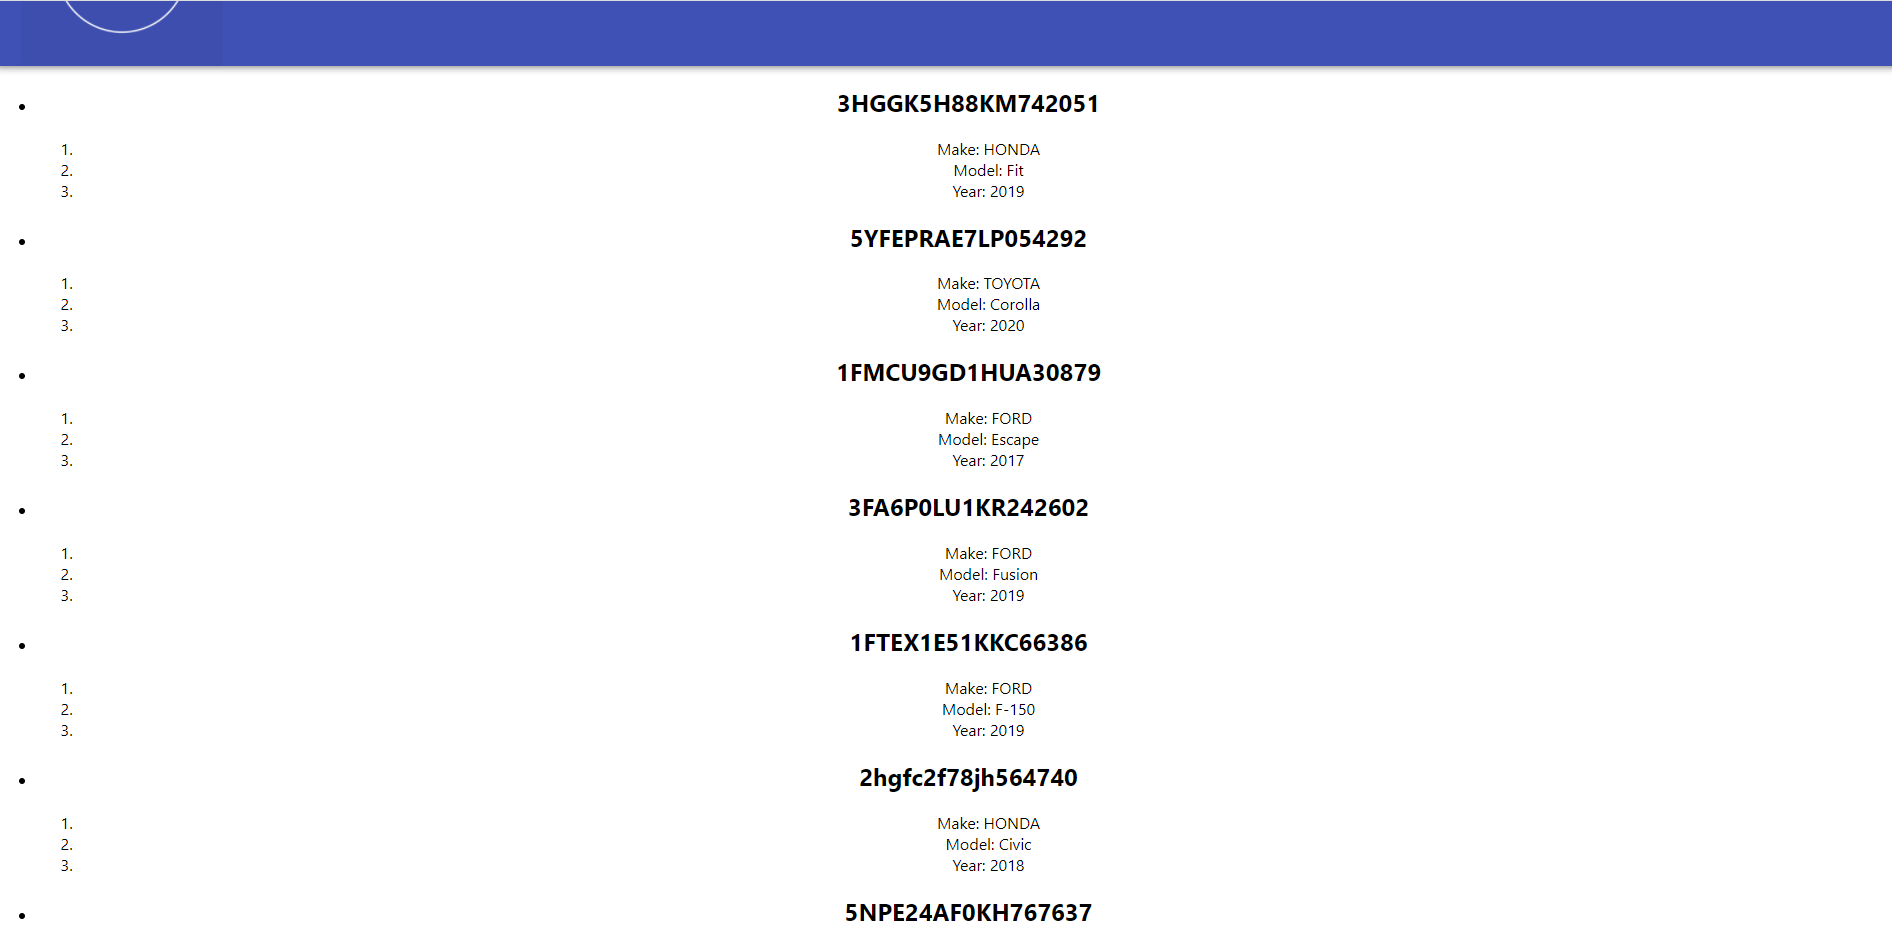
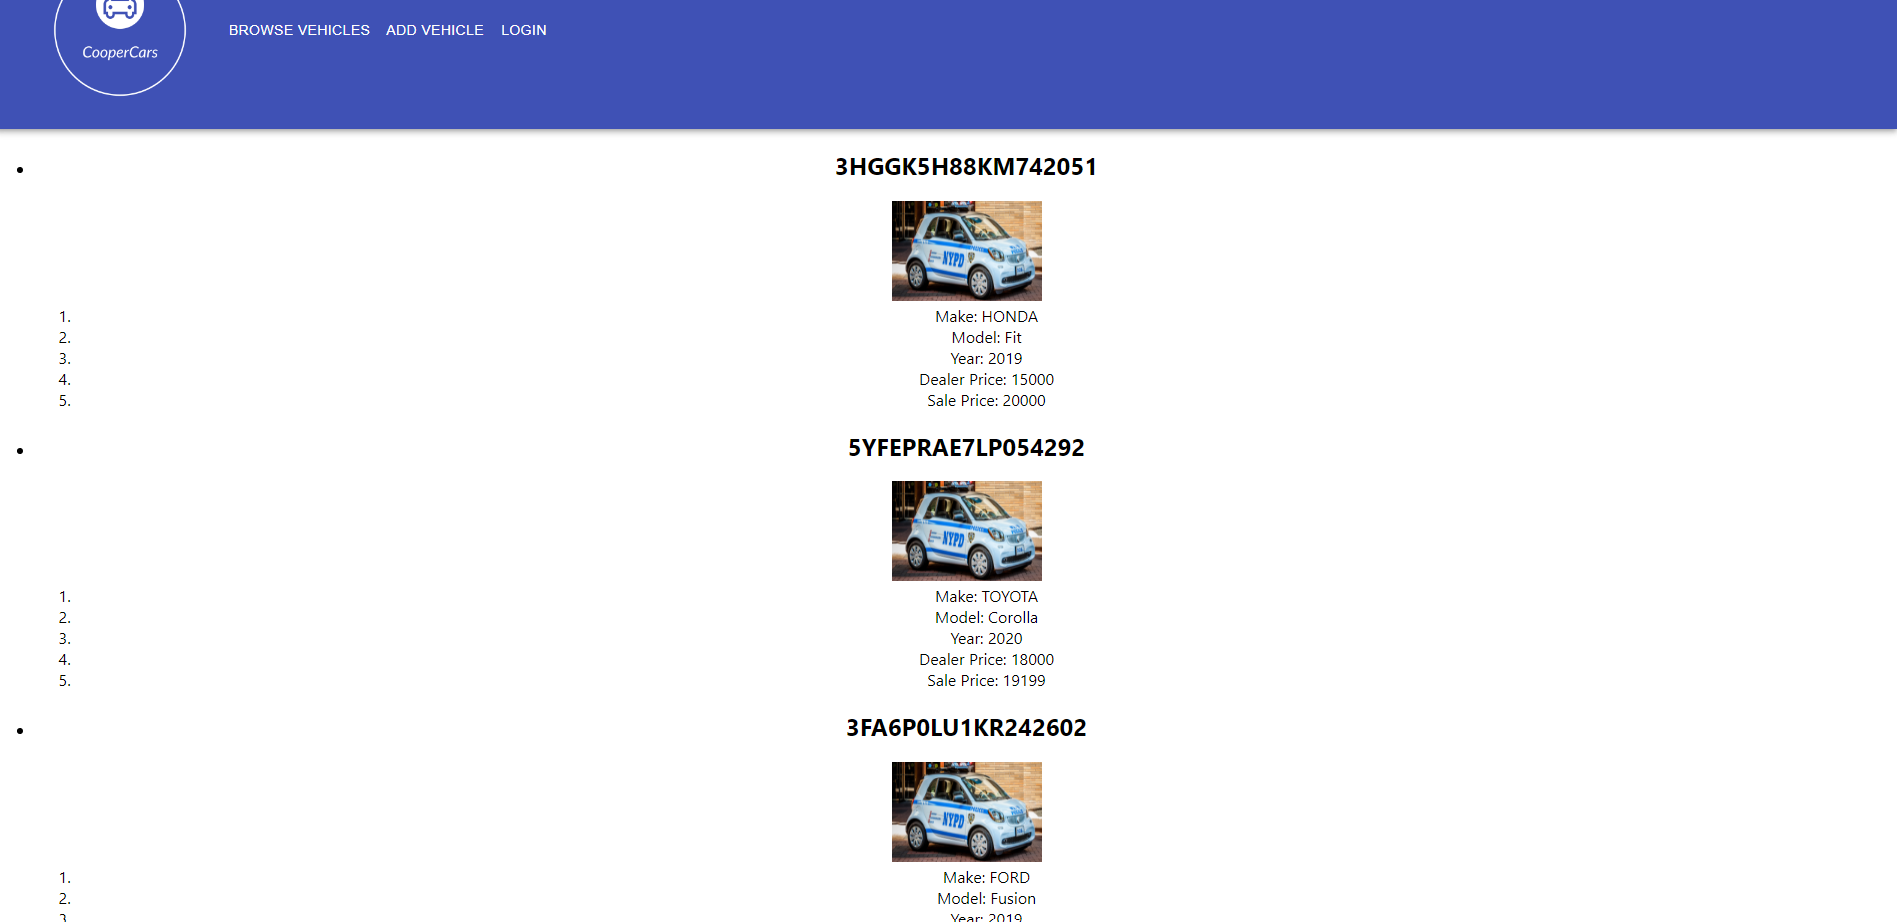
added functionality for dealer to add dealer and sale price. API fetches from textfield from from end

Changed region(s): [[0.0, 0.0, 1.0, 1.0]]

diff --git a/coopercars-app/src/components/AddVehicle.js b/coopercars-app/src/components/AddVehicle.js
@@ -20,7 +20,6 @@ function getRandomColor() {
 
 function AddVehicle() {
     const apiUrlPrefix = "http://localhost:8080";
-    //const vins = ['1FMCU9GD1HUA30879', '3FA6P0LU1KR242602', '3HGGK5H88KM742051', '5YJ3E1EA5JF098290', '1FTEX1E51KKC66386', '1C4RJFLG1HC603078', '3FA6P0LU1KR101755', 'JTMRWRFV7LJ048851', '1G1RE6E42EU111830', 'SADCJ2BN5HA086947', 'KNMAT2MV3JP608780', '5NPD84LF6KH490922', '5npe34af3jh646547', '2hgfc2f78jh564740', '5YFEPRAE7LP054292', '55SWF4KB5GU142000'];
 
     const [currentVIN, setCurrentVIN] = useState('-');
     const [currentVehicleInfo, setCurrentVehicleInfo] = useState('-');
@@ -30,15 +29,14 @@ function AddVehicle() {
     const [currentVehicleFeatures4, setCurrentVehicleFeatures4] = useState('-');
     const [currentVehicleFeatures5, setCurrentVehicleFeatures5] = useState('-');
 
-    //const [data,setData] = useState(null);
-    //const [print,setPrint] = useState(false);
-    //const vinDelay = 30000; // in milliseconds
     const [vin, setVin] = useState("");
+    const [salePrice, setSalePrice] = useState("");
+    const [dealerPrice, setDealerPrice] = useState("");
 
 
-    AddVehicle.refreshVehicleInfo = (vin) => {
+    AddVehicle.refreshVehicleInfo = (vin, dealerPrice,salePrice) => {
         console.log("Refreshing ... %s vehicle ...", currentVIN);
-        // var vin = vins[Math.floor(Math.random() * vins.length)];
+
         setCurrentVIN(vin);
         setCurrentVehicleInfo(vin);
         setCurrentVehicleFeatures1(vin);
@@ -47,7 +45,7 @@ function AddVehicle() {
         setCurrentVehicleFeatures4(vin);
         setCurrentVehicleFeatures5(vin);
 
-        var vehicleApiUrl = apiUrlPrefix.concat("/api/vehicle/",vin);
+        var vehicleApiUrl = apiUrlPrefix.concat("/api/vehicle/",vin+"/"+dealerPrice+"/"+salePrice);
         fetch(vehicleApiUrl)
             .then(response => response.json())
             .then(data => {
@@ -101,20 +99,13 @@ function AddVehicle() {
             });
         console.log("Refreshed %s VIN.", currentVIN);
     }
-    // useInterval(() => {
-    //   HomePage.refreshVehicleInfo();
-    // }, vinDelay);
 
 
     AddVehicle.buttonClicked = () => {
         console.log('Button was clicked!');
-        AddVehicle.refreshVehicleInfo(vin);
+        AddVehicle.refreshVehicleInfo(vin,dealerPrice,salePrice);
     }
 
-    // HomePage.getData = (val) => {
-    //     setData(val.target.value)
-    //     console.warn(val.target.value)
-    // }
 
     return (
         <div className="App">
@@ -123,26 +114,30 @@ function AddVehicle() {
                 <img src={coopercars1_logo} className="App-logo" alt="cooper-logo" />
 
                 <p>
-                    Enter VIN of vehicle to add to inventory:
+                    Enter VIN, dealer price, sale price of vehicle to add to inventory:
                 </p>
 
                 <TextField
                     style={{background: "rgb(232, 241, 250)"}}
+                    onChange={(e) => setVin(e.target.value)}
                     value={vin}
-                    onChange={(e) => {
-                        setVin(e.target.value);
-                    }}
+                />
+                <TextField
+                    style={{background: "rgb(232, 241, 250)"}}
+                    onChange={(e) => setDealerPrice(e.target.value)}
+                    value={dealerPrice}
+
+                />
+                <TextField
+                    style={{background: "rgb(232, 241, 250)"}}
+                    onChange={(e) => setSalePrice(e.target.value)}
+                    value={salePrice}
 
                 />
 
                 <button className="button" onClick={AddVehicle.buttonClicked}>Submit</button>
 
-
-                {/*<input type="text" onChange={HomePage.getData}/>*/}
-                {/*<button onClick={HomePage.getData}>Submit</button>*/}
-
                 <br></br>
-                {/*<button className="button" onClick={HomePage.buttonClicked}>Click to Refresh</button>*/}
 
                 <p>The vehicle for VIN {vin} is </p>
                 {currentVehicleInfo}<br></br>

diff --git a/coopercars-app/src/components/BrowseVehicle.js b/coopercars-app/src/components/BrowseVehicle.js
@@ -53,12 +53,13 @@ function BrowseVehicle() {
                 <ul className="card-grid">
                     {items.map((item) => (
                         <li>
-                            {/*<article className="card" key={item.callingCodes}>*/}
-                            {/*    <div className="card-image">*/}
-                            {/*        <img src={item.flag} alt={item.name} />*/}
-                            {/*    </div>*/}
+                            <article className="vehicle" key={item.vin}>
+
                                 <div className="card-content">
                                     <h2 className="card-name">{item.vin}</h2>
+                                    <div className="car-image">
+                                        <img src={item.imgURL} alt={item.vin} width="150" height="100"/>
+                                    </div>
                                     <ol className="card-list">
                                         <li>
                                             Make:{" "}
@@ -70,9 +71,15 @@ function BrowseVehicle() {
                                         <li>
                                             Year: <span>{item.year}</span>
                                         </li>
+                                        <li>
+                                            Dealer Price: <span>{item.dealerPrice}</span>
+                                        </li>
+                                        <li>
+                                            Sale Price: <span>{item.salePrice}</span>
+                                        </li>
                                     </ol>
                                 </div>
-                            {/*</article>*/}
+                            </article>
                         </li>
                     ))}
                 </ul>

diff --git a/coopercars-service/src/main/java/edu/cooper/ece366/project/coopercars/server/VehicleAPI.java b/coopercars-service/src/main/java/edu/cooper/ece366/project/coopercars/server/VehicleAPI.java
@@ -19,9 +19,10 @@ public class VehicleAPI
         this.theVehicle = theVehicle;
     }
 
-    public VehicleAPI(String myVIN) throws IOException {
+    public VehicleAPI(String myVIN, String dealerPrice, String salePrice) throws IOException {
         String theVIN = myVIN;
         String VIN;
+        String imgURL;
 
         //general
         String make;
@@ -104,7 +105,7 @@ public class VehicleAPI
         int axles;
         String transmissionStyle;
         String theURL = "https://vpic.nhtsa.dot.gov/decoder/Decoder/ExportToExcel?VIN=" + theVIN;
-        String[] populateInitialRow = {"VIN", "Anti-lock Braking System (ABS)", "Electronic Stability Control (ESC)", "Traction Control",
+        String[] populateInitialRow = {"VIN","Anti-lock Braking System (ABS)", "Electronic Stability Control (ESC)", "Traction Control",
                 "Keyless Ignition", "Automatic Crash Notification (ACN) / Advanced Automatic Crash Notification (AACN)",
                 "Backup Camera", "Parking Assist", "Rear Cross Traffic Alert", "Rear Automatic Emergency Braking", "Crash Imminent Braking (CIB)",
                 "Forward Collision Warning (FCW)", "Dynamic Brake Support (DBS)", "Pedestrian Automatic Emergency Braking (PAEB)",
@@ -117,7 +118,7 @@ public class VehicleAPI
                 "Body Class", "Doors", "Windows", "Wheel Base Type", "Bed Length (inches)", "Curb Weight (pounds)", "Wheel Base (inches) From",
                 "Gross Combination Weight Rating From", "Bed Type", "Cab Type", "Number of Wheels", "Wheel Size Front (inches)",
                 "Wheel Size Rear (inches)", "Make", "Model", "Model Year", "Series", "Trim", "Vehicle Type", "Plant Country",
-                "Base Price ($)", "Entertainment System", "Number of Seats", "Number of Seat Rows", "Drive Type", "Axles", "Transmission Style"};
+                "Base Price ($)", "Entertainment System", "Number of Seats", "Number of Seat Rows", "Drive Type", "Axles", "Transmission Style", "Dealer Price", "Sale Price","Image URL"};
 
         List<String[]> initialRow = new ArrayList<String[]>();
         initialRow.add(populateInitialRow);
@@ -155,8 +156,10 @@ public class VehicleAPI
         String[] vehicleData;
 
         List<String[]> vehicleRows = new ArrayList<String[]>();
-        String[] populateVehicleRow = new String[66];
+        String[] populateVehicleRow = new String[69];
+        // TODO: loop through database, if VIN exists, do not add
         populateVehicleRow[0] = theVIN;
+
         boolean populateVehicleRowBool = true;
         while ((currentLine = in.readLine()) != null) {
             vehicleData = currentLine.split(",", 3);
@@ -174,6 +177,9 @@ public class VehicleAPI
                 }
             }
         }
+        populateVehicleRow[66] = dealerPrice;
+        populateVehicleRow[67] = salePrice;
+        populateVehicleRow[68] = "https://pictures.topspeed.com/IMG/crop/201609/smart-fortwo-nypd-ed-9_1600x0w.jpg";
 
         if(populateVehicleRowBool)
         {
@@ -234,6 +240,8 @@ public class VehicleAPI
         numOfSeatRows = Integer.parseInt("0" + populateVehicleRow[62]);
         axles = Integer.parseInt("0" + populateVehicleRow[64]);
 
+        Double theDealerPrice = Double.parseDouble("0"+populateVehicleRow[66]);
+        Double theSalePrice = Double.parseDouble("0"+populateVehicleRow[67]);
 
         fuelTypePrim = populateVehicleRow[29];
         engineConfig = populateVehicleRow[30];
@@ -256,8 +264,9 @@ public class VehicleAPI
         entertainSys = populateVehicleRow[60];
         driveType = populateVehicleRow[63];
         transmissionStyle = populateVehicleRow[65];
+        imgURL = populateVehicleRow[68];
 
-        theVehicle = new Vehicle(VIN, make, model, year, series, trim, vehicleType, plantCountry, basePrice, entertainSys, numOfSeats,
+        theVehicle = new Vehicle(VIN, theDealerPrice, theSalePrice, imgURL, make, model, year, series, trim, vehicleType, plantCountry, basePrice, entertainSys, numOfSeats,
                 numOfSeatRows, antiLockBraking, electronicStability, tractionControl, keylessIgnition, autoCrashNotif, backupCam, parkingAssist, rearCrossTrafficAlert,
                 rearAutoEmergBraking, crashImmBraking, forwColliWarn, dynamicBrakeSupp, pedestrianAutoEmergBrak, blindSpotWarn,
                 laneDepartWarn, laneKeepAssist, blindSpotIntervention, laneCenterAssist, daytimeRunLights, headlampLightSrc, headlampBeamSwitch,

diff --git a/coopercars-service/src/main/java/edu/cooper/ece366/project/coopercars/server/Vehicle.java b/coopercars-service/src/main/java/edu/cooper/ece366/project/coopercars/server/Vehicle.java
@@ -3,7 +3,9 @@ package edu.cooper.ece366.project.coopercars.server;
 public class Vehicle
 {
     private String VIN;
-
+    private double dealerPrice;
+    private double salePrice;
+    private String imgURL;
     //general
     private String make;
     private String model;
@@ -85,8 +87,11 @@ public class Vehicle
     private int axles;
     private String transmissionStyle;
 
-    public Vehicle(String VIN, String make, String model, int year, String series, String trim, String vehicleType, String plantCountry, double basePrice, String entertainSys, int numOfSeats, int numOfSeatRows, String antiLockBraking, String electronicStability, String tractionControl, String keylessIgnition, String autoCrashNotif, String backupCam, String parkingAssist, String rearCrossTrafficAlert, String rearAutoEmergBraking, String crashImmBraking, String forwColliWarn, String dynamicBrakeSupp, String pedestrianAutoEmergBrak, String blindSpotWarn, String laneDepartWarn, String laneKeepAssist, String blindSpotIntervention, String laneCenterAssist, String daytimeRunLights, String headlampLightSrc, String headlampBeamSwitch, String adaptDrivingBeam, String adaptiveCruiseControl, int numOfCylinders, double displacementCC, double displacementCI, double displacementL, double enginePowerkW, String fuelTypePrim, String fuelTypeSec, String fuelInjectionType, String engineConfig, double horsepower, String electricificationLevel, String otherEngineInfo, String turbo, int topSpeed, String engineManufact, String bodyClass, int numOfDoors, int numOfWindows, String wheelBaseType, double bedLength, double curbWeight, double wheelBase, double grossCombWeight, String truckBedType, String truckCabType, int numOfWheels, int wheelSizeFrontIn, int wheelsSizeRearIn, String driveType, int axles, String transmissionStyle) {
+    public Vehicle(String VIN, Double dealerPrice, Double salePrice, String imgURL, String make, String model, int year, String series, String trim, String vehicleType, String plantCountry, double basePrice, String entertainSys, int numOfSeats, int numOfSeatRows, String antiLockBraking, String electronicStability, String tractionControl, String keylessIgnition, String autoCrashNotif, String backupCam, String parkingAssist, String rearCrossTrafficAlert, String rearAutoEmergBraking, String crashImmBraking, String forwColliWarn, String dynamicBrakeSupp, String pedestrianAutoEmergBrak, String blindSpotWarn, String laneDepartWarn, String laneKeepAssist, String blindSpotIntervention, String laneCenterAssist, String daytimeRunLights, String headlampLightSrc, String headlampBeamSwitch, String adaptDrivingBeam, String adaptiveCruiseControl, int numOfCylinders, double displacementCC, double displacementCI, double displacementL, double enginePowerkW, String fuelTypePrim, String fuelTypeSec, String fuelInjectionType, String engineConfig, double horsepower, String electricificationLevel, String otherEngineInfo, String turbo, int topSpeed, String engineManufact, String bodyClass, int numOfDoors, int numOfWindows, String wheelBaseType, double bedLength, double curbWeight, double wheelBase, double grossCombWeight, String truckBedType, String truckCabType, int numOfWheels, int wheelSizeFrontIn, int wheelsSizeRearIn, String driveType, int axles, String transmissionStyle) {
         this.VIN = VIN;
+        this.dealerPrice = dealerPrice;
+        this.salePrice = salePrice;
+        this.imgURL = imgURL;
         this.make = make;
         this.model = model;
         this.year = year;
@@ -152,6 +157,14 @@ public class Vehicle
         this.driveType = driveType;
         this.axles = axles;
         this.transmissionStyle = transmissionStyle;
+    }
+
+    public String getImgURL() {
+        return imgURL;
+    }
+
+    public void setImgURL(String imgURL) {
+        this.imgURL = imgURL;
     }
 
     public String getVIN() {
@@ -680,6 +693,22 @@ public class Vehicle
 
     public void setTransmissionStyle(String transmissionStyle) {
         this.transmissionStyle = transmissionStyle;
+    }
+
+    public double getDealerPrice() {
+        return dealerPrice;
+    }
+
+    public void setDealerPrice(double dealerPrice) {
+        this.dealerPrice = dealerPrice;
+    }
+
+    public double getSalePrice() {
+        return salePrice;
+    }
+
+    public void setSalePrice(double salePrice) {
+        this.salePrice = salePrice;
     }
 
     @Override

diff --git a/coopercars-service/src/main/java/edu/cooper/ece366/project/coopercars/server/VehiclesAPI.java b/coopercars-service/src/main/java/edu/cooper/ece366/project/coopercars/server/VehiclesAPI.java
@@ -36,7 +36,7 @@ public class VehiclesAPI
 
             input.nextLine();
 
-            String VIN, make, model, series, trim, vehicleType, plantCountry, entertainSys, antiLockBraking, electronicStability,
+            String VIN, make, model, imgURL, series, trim, vehicleType, plantCountry, entertainSys, antiLockBraking, electronicStability,
                     tractionControl, keylessIgnition, autoCrashNotif, backupCam, parkingAssist, rearCrossTrafficAlert, rearAutoEmergBraking,
                     crashImmBraking, forwColliWarn, dynamicBrakeSupp, pedestrianAutoEmergBrak, blindSpotWarn, laneDepartWarn,
                     laneKeepAssist, blindSpotIntervention, laneCenterAssist, daytimeRunLights, headlampLightSrc, headlampBeamSwitch,
@@ -45,12 +45,12 @@ public class VehiclesAPI
             int year= 0,  numOfSeats= 0, numOfSeatRows= 0, numOfCylinders= 0, topSpeed= 0, numOfDoors= 0, numOfWindows= 0,
                     numOfWheels= 0, wheelSizeFrontIn= 0, wheelSizeRearIn= 0, axles = 0;
             double displacementCC = 0.0, displacementCI = 0.0, displacementL = 0.0, enginePowerkW = 0.0, bedLength = 0.0, curbWeight = 0.0,
-                    wheelBase = 0.0, grossCombWeight = 0.0, basePrice = 0.0, horsepower = 0.0;
+                    wheelBase = 0.0, grossCombWeight = 0.0, basePrice = 0.0, horsepower = 0.0, dealerPrice = 0.0, salePrice = 0.0;
 
             while(input.hasNextLine())
             {
                 currentLine = input.nextLine();
-                vehicleData = currentLine.split(",",66);
+                vehicleData = currentLine.split(",",69);
                 VIN = vehicleData[0];
                 antiLockBraking = vehicleData[1];
                 electronicStability = vehicleData[2];
@@ -98,6 +98,8 @@ public class VehiclesAPI
                 numOfSeats = Integer.parseInt("0" + vehicleData[61]);
                 numOfSeatRows = Integer.parseInt("0" + vehicleData[62]);
                 axles = Integer.parseInt("0" + vehicleData[64]);
+                dealerPrice = Double.parseDouble("0"+vehicleData[66]);
+                salePrice = Double.parseDouble("0"+vehicleData[67]);
 
 
                 fuelTypePrim = vehicleData[29];
@@ -122,7 +124,10 @@ public class VehiclesAPI
                 driveType = vehicleData[63];
                 transmissionStyle = vehicleData[65];
 
-                theVehicle = new Vehicle(VIN,make,model,year,series,trim,vehicleType,plantCountry,basePrice,entertainSys,numOfSeats,
+                imgURL = vehicleData[68];
+
+
+                theVehicle = new Vehicle(VIN,dealerPrice,salePrice,imgURL,make,model,year,series,trim,vehicleType,plantCountry,basePrice,entertainSys,numOfSeats,
                         numOfSeatRows,antiLockBraking,electronicStability,tractionControl,keylessIgnition,autoCrashNotif,backupCam,parkingAssist,rearCrossTrafficAlert,
                         rearAutoEmergBraking,crashImmBraking,forwColliWarn,dynamicBrakeSupp,pedestrianAutoEmergBrak,blindSpotWarn,
                         laneDepartWarn,laneKeepAssist,blindSpotIntervention,laneCenterAssist,daytimeRunLights,headlampLightSrc,headlampBeamSwitch,

diff --git a/coopercars-service/src/main/java/edu/cooper/ece366/project/coopercars/server/ControllerApi.java b/coopercars-service/src/main/java/edu/cooper/ece366/project/coopercars/server/ControllerApi.java
@@ -17,10 +17,10 @@ public class ControllerApi {
     private static final Logger LOGGER = LoggerFactory.getLogger(ControllerApi.class);
     private ObjectMapper objectMapper = new ObjectMapper();
 
-    @GetMapping(path = "/vehicle/{vin}", produces = MediaType.APPLICATION_JSON_VALUE)
-    public String getVehicleInfo(@PathVariable final String vin) throws JsonProcessingException {
+    @GetMapping(path = "/vehicle/{vin}/{dealerPrice}/{salePrice}", produces = MediaType.APPLICATION_JSON_VALUE)
+    public String getVehicleInfo(@PathVariable final String vin, @PathVariable final String dealerPrice, @PathVariable final String salePrice) throws JsonProcessingException {
         try {
-            VehicleAPI vehicle = new VehicleAPI(vin);
+            VehicleAPI vehicle = new VehicleAPI(vin,dealerPrice,salePrice);
             LOGGER.debug(vehicle.getTheVehicle().toString());
             String theVehicleJSON = objectMapper.writeValueAsString(vehicle.getTheVehicle());
             LOGGER.debug(theVehicleJSON);

diff --git a/coopercars-service/src/main/java/edu/cooper/ece366/project/coopercars/server/Server.java b/coopercars-service/src/main/java/edu/cooper/ece366/project/coopercars/server/Server.java
@@ -15,7 +15,7 @@ public class Server {
 
         try {
 
-            VehicleAPI vehicle = new VehicleAPI("JTMRWRFV7LJ048851");
+            VehicleAPI vehicle = new VehicleAPI("JTMRWRFV7LJ048851","10000","10000");
 //            String theVIN = vehicle.getVIN();
 //            String make = vehicle.getMake();
 //            String model = vehicle.getModel();

diff --git a/README.md b/README.md
@@ -1,15 +1,15 @@
 # CooperCars: US-11
 ## Current Functionality:
-#### 'Add Vehicles' page: User enters a VIN, vehicle details are added to CSV database. Info about vehicle added presented.
+#### 'Add Vehicles' page: User enters a VIN, dealer/sale price. Vehicle details are added to CSV database and info presented.
 ![image1](us-8.png)
 #### 'Browse Vehicles' page: Reads all the vehicles in the CSV database.
 ![image1](us-11.png)
 ## Backend:
-#### http://localhost:8080/api/vehicle/5YFEPRAE7LP054292 returns info about ONE vehicle
-#### http://localhost:8080/api/vehicles retunrs info about ALL vehicles in database
+#### http://localhost:8080/api/vehicle/{vin}/{dealerPrice}/{salePrice} returns info about ONE vehicle, passes to back end price info from front end.
+#### http://localhost:8080/api/vehicles returns info about ALL vehicles in database
 ## Next steps:
 #### Social login. Seperate platforms for dealer/consumer.
 #### Add sorting/filtering by vehicle specification. Reference: https://www.freecodecamp.org/news/search-and-filter-component-in-reactjs/
 #### CSV database to SQL :-)
-#### When adding a vehicle, prompt for sale price and dealer price
+#### DONE: When adding a vehicle, prompt for sale price and dealer price
 
